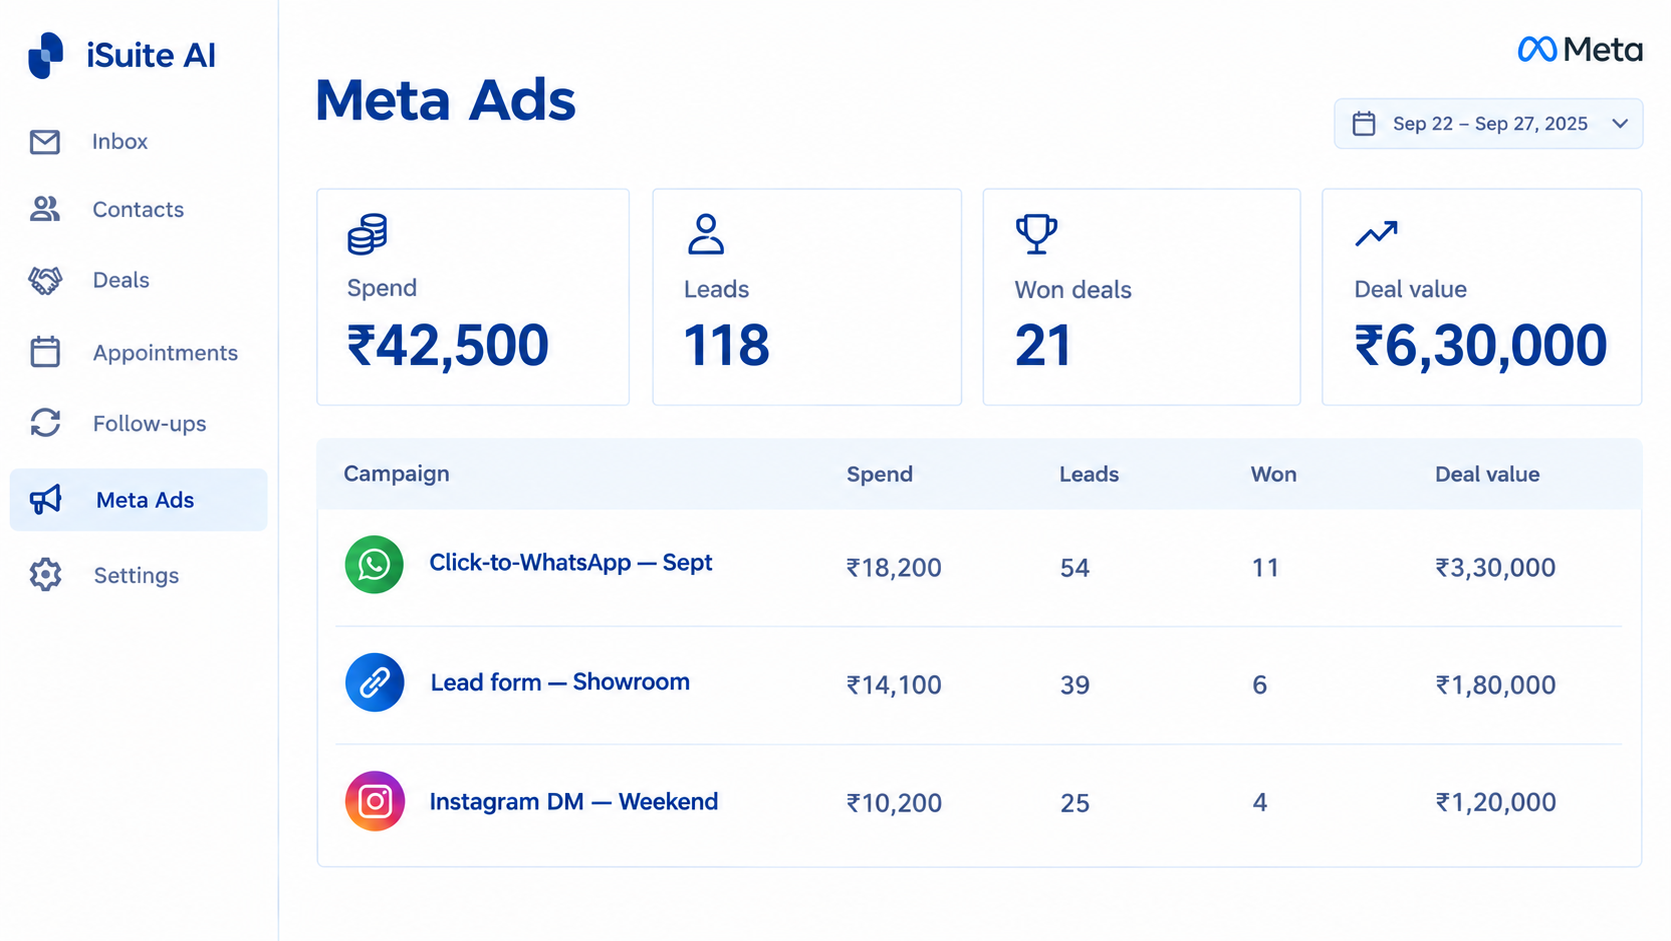
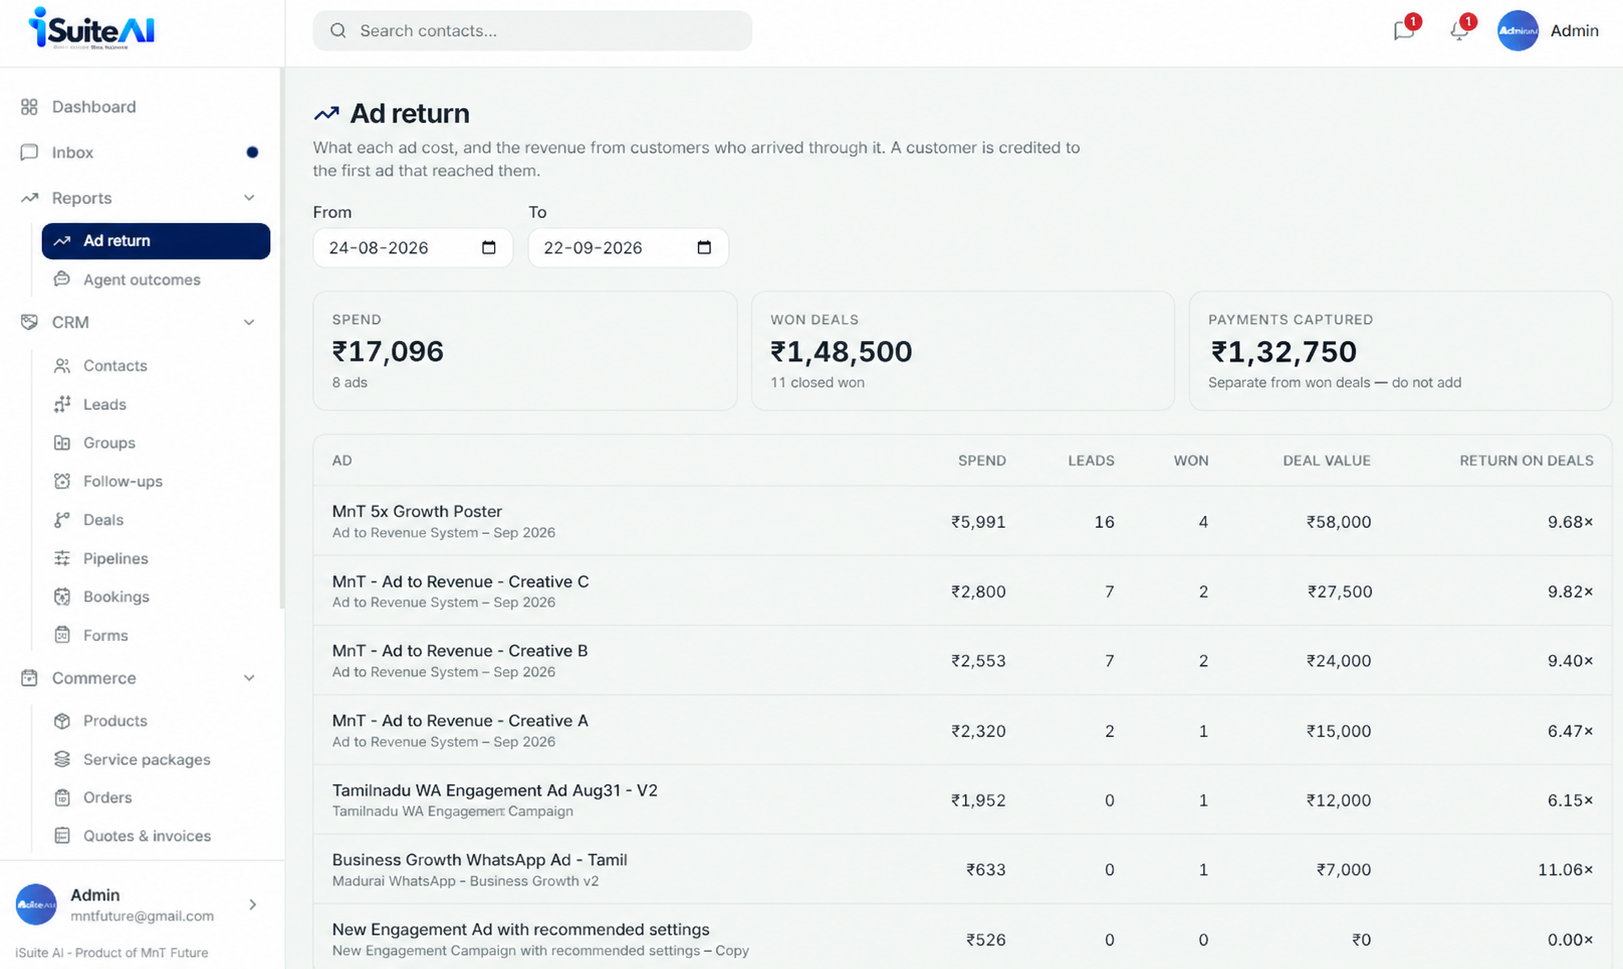
Wire the booking link, and the last invented figures go
THE BUTTONS GO SOMEWHERE NOW. All eight of them read site.bookingUrl and
it has been "" since the form was removed, so every one fell back to "#"
and the build shouted about it on every compile. It is set, and the eight
anchors in the prerendered page were checked: eight pointing at the
booking page, none left on "#".

It is the client's own CRM rather than Calendly or Zoho, which is worth
more than it looks: a visitor who clicks BOOK MY FREE DEMO lands inside
the product being sold, and the booking they make is the same booking the
chapter 3 screenshot shows. The path is an opaque id with nothing readable
in it, so a wrong character does not fail loudly - it 404s or serves
somebody else's page, and the only symptom is bookings not arriving while
the ads keep running. Copy it from the CRM, never retype it.

EVERY SCREENSHOT ON THE PAGE IS REAL. meta-ads.png was the last generated
mock, and the Ad return screen replaces it: real spend, real won deals,
real return per ad, over a real 30-day window ending today. That also
retires the largest entry in PLACEHOLDER_CLAIMS - seven screens of
invented pipeline values, ad spend and response times that the
requirements doc forbids outright and that sat there as the client's own
override. One entry is left on that list, the FAQ's setup-time line.

Worth saying plainly: this is a higher bar than the mocks were, not a
lower one. Real figures cannot be quietly adjusted to look better, so a
[…]

diff --git a/lib/site.ts b/lib/site.ts
@@ -51,19 +51,23 @@ export const site = {
 
      EMPTY THIS LIST BEFORE LAUNCH. Add to it any time an invented figure
      goes onto the page.
+
+     THE SCREENSHOTS CAME OFF THIS LIST. All seven were AI-generated mocks
+     carrying invented pipeline values, ad spend and response times, which
+     the requirements doc forbids outright and which sat here as the client's
+     own override. Every one is now a real screen from their own CRM, with
+     staff names and customer numbers redacted, so the figures on the page
+     are the client's actual figures and there is nothing left to disclose.
+
+     WHICH IS A HIGHER BAR, NOT A LOWER ONE. Real numbers cannot be quietly
+     adjusted to look better. If a screenshot is ever swapped for something
+     retouched, it belongs back on this list the same day.
      ========================================================================== */
   PLACEHOLDER_CLAIMS: [
     {
       where: "lib/content.ts — salesFaq, 'How long does it take to set up?'",
       claim: "Setup on our side is usually done within a week",
       truth: "Unknown. Nobody has given a figure from a real onboarding.",
-    },
-    {
-      where: "public/shots/*.png — the six product screenshots",
-      claim:
-        "Every figure inside them: pipeline value, deal values, ad spend, lead and won-deal counts, response times",
-      truth:
-        "AI-generated sample screens standing in until real ones are approved. The requirements doc forbids fake dashboard figures, so this override is the client's and must be re-confirmed. Replace the files rather than editing the numbers.",
     },
   ],
 
@@ -85,7 +89,15 @@ export const site = {
      That is deliberate: a silent dead button on a page taking ad spend is the
      single most expensive bug this page could have.
 
-     Paste the full address including https://, for example a Calendly,
-     Google Calendar appointment or Zoho Bookings page. */
-  bookingUrl: "", // TODO BEFORE LAUNCH: the demo booking page
+     IT IS THEIR OWN CRM. Not Calendly or Zoho — the booking page is served
+     by iSuite AI itself at crm.mntfuture.com, which matters more than it
+     looks: a visitor who clicks "BOOK MY FREE DEMO" lands on the product
+     being sold, and the booking they make is the same booking the chapter 3
+     screenshot shows. The demo starts before the call does.
+
+     THE PATH IS AN OPAQUE ID and there is nothing to read in it. Changing a
+     character does not fail loudly — it serves someone else's booking page
+     or a 404, and the only symptom is bookings quietly not arriving. Check
+     it against the CRM rather than retyping it. */
+  bookingUrl: "https://crm.mntfuture.com/b/abb8c76365cd45a4a5c495f33013adea",
 } as const;

diff --git a/app/page.tsx b/app/page.tsx
@@ -174,7 +174,7 @@ export default function Page() {
           total={5}
           mock={
             <ShotSlot
-              name="Meta Ads - spend, leads and won deals in one view"
+              name="Ad return - what each ad cost, and the revenue it brought back"
               file="meta-ads.png"
               src={metaAdsShot}
               sizes={SHOT_SIZES.chapter}
